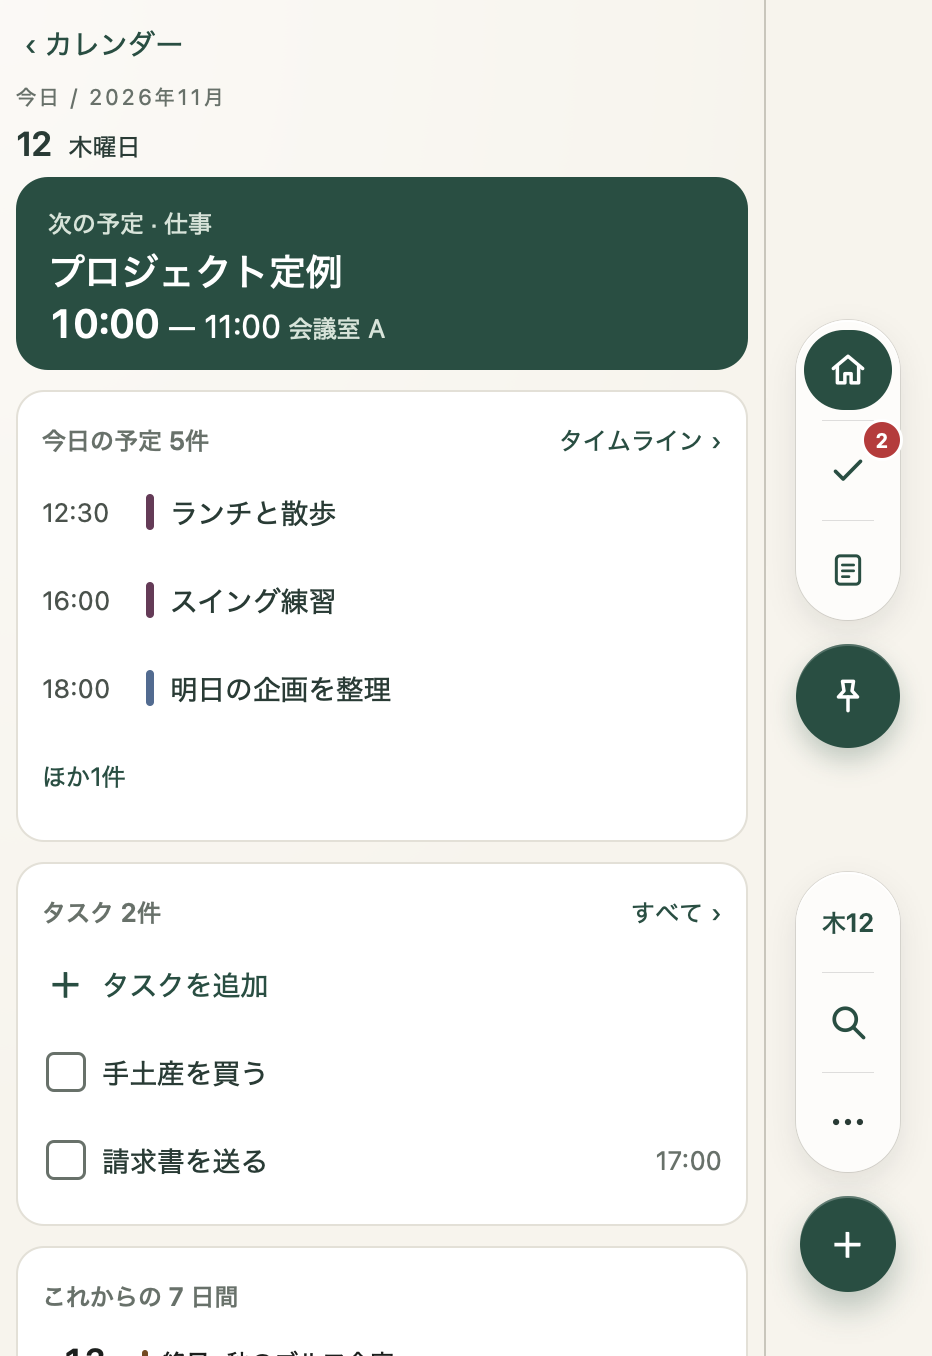
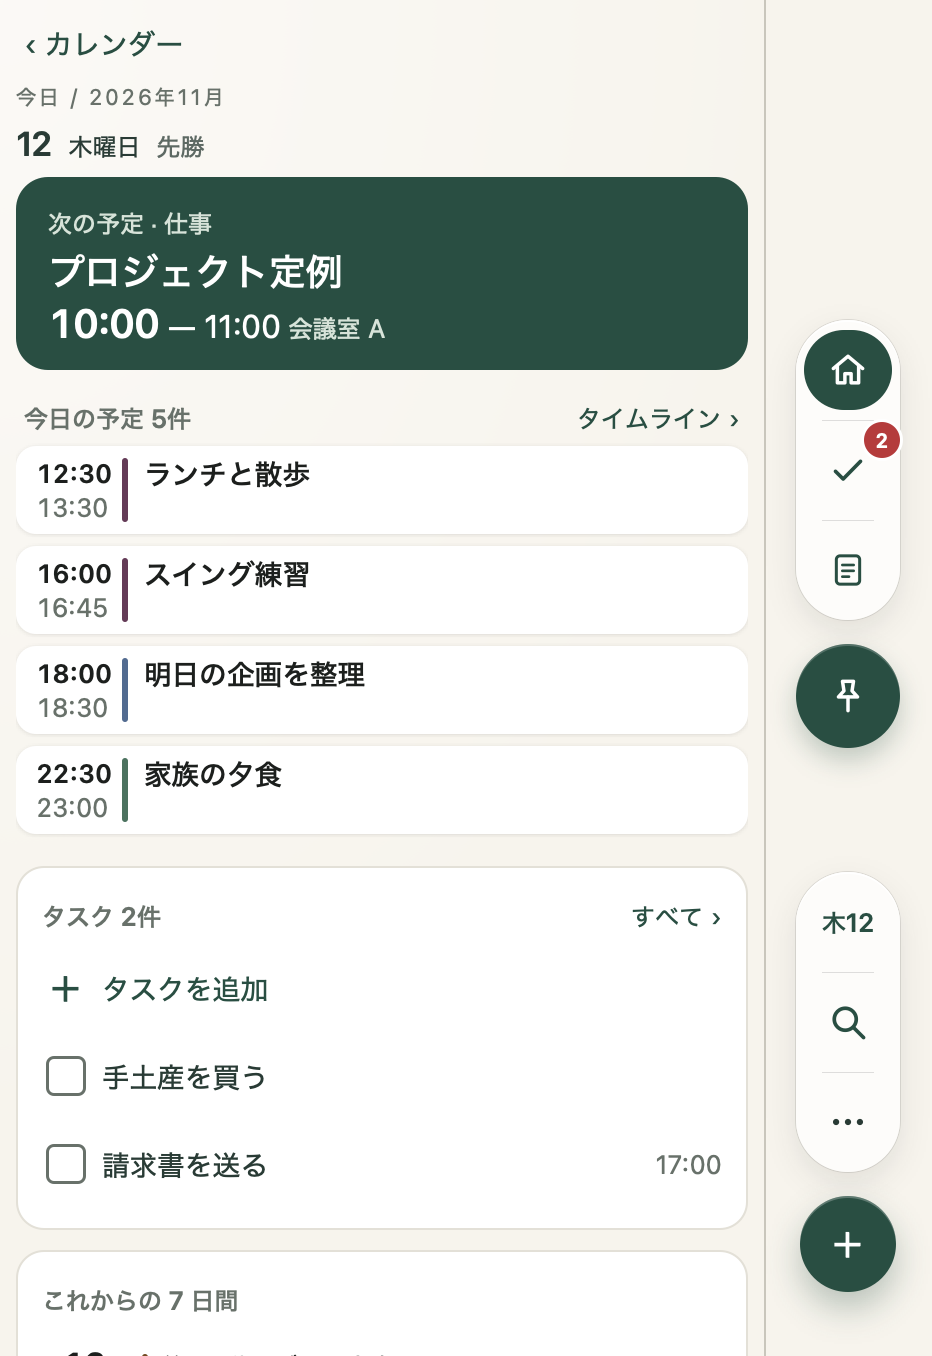
v19.5 その4: 閉じたホームの「今日の予定」を白いカードに（残りを全部出す）、日付の横に六曜

diff --git a/app/ios/App/App/public/js/app.js b/app/ios/App/App/public/js/app.js
@@ -1969,6 +1969,11 @@ function homeTasksCard() {
 }
 // 第19.5版: ホームの「これからの 7 日間」（明日から 7 日。1 日 1 行で、予定は 3 件まで＋「ほか N 件」。行をたたくと、その日を選んでカレンダーへ）
 const HOME_WEEK_MAX = 3;
+// 第19.5版（征希さん「作り込んで」）: 閉じたホームの「今日の予定」は、日の欄と同じ白いカード（始まり・終わり・色の線・題名・メモの 1 行目）
+function homeEventCard(e, k) {
+  const memo = (e.notes || '').split('\n').find((x) => x.trim()) || '', multi = e.all || dayOf(e.start) < k;
+  return `<button type="button" class="hrow event-row hxc ${catCls(e)}"${catSty(e)} data-event="${esc(e.id)}"${repLabel(e, `${timeLabel(e)} ${e.title}`)}><span class="ht">${multi ? '終日' : t0(e.start.slice(11))}${bell(e)}</span><span class="ht2">${multi ? '' : dayEndText(e, k)}</span><i class="hbar" aria-hidden="true"></i><strong>${xi(e)}${rep(e)}${esc(e.title)}</strong>${memo ? `<small class="hxm">${esc(memo)}</small>` : ''}</button>`;
+}
 function homeWeekCard(k) {
   const from = addDays(k, 1), to = addDays(k, 7), occ = occIn(from, to);
   const rows = Array.from({ length: 7 }, (_, i) => addDays(k, i + 1)).map((dk) => {
@@ -1985,14 +1990,14 @@ function listHtml(mode = 'cards') {
   const list = eventsOnDay(occIn(k, k), k).filter((e) => e.end > now);
   // 今日にもう予定がなければ、未来の回も含めて日付順に次の予定を探す。
   const future = list.length ? null : occIn(addDays(k, 1), addDays(k, 400)).sort((a, b) => a.start.localeCompare(b.start) || String(a.id).localeCompare(String(b.id)))[0];
-  const { next, shown, more, count } = splitEvents(list, future);
+  const { next, shown, more, count, rest } = splitEvents(list, future), closedH = closedSize() && mode === 'cards';
   const nextDay = next && dayOf(next.start) !== k ? `<small class="nd">${dayLabel(dayOf(next.start))}</small> ` : '';
   const nextHtml = next
     ? `<button type="button" class="next ${catCls(next)}"${catSty(next)} data-event="${esc(next.id)}"${repLabel(next, `次の予定 ${next.title}`)}><small>次の予定 · ${esc(tagText(next))}</small><strong>${xi(next)}${rep(next)}${esc(next.title)}</strong><span class="when"><span class="time">${nextDay}${next.all ? '終日' : t0(next.start.slice(11))}</span>${next.all || dayOf(next.start) !== dayOf(next.end) ? '' : ` — ${t0(next.end.slice(11))}`}${next.place ? ` <small>${esc(next.place)}</small>` : ''}${nextBell(next)}</span></button>`
     : `<div class="next none"><small>次の予定</small><strong>${extActive() ? '読み込み済みの期間に次の予定はありません。' : state.events.length ? 'この後の予定はありません' : '予定はまだありません'}</strong>${sampleBtn()}</div>`;
-  const hero = `<section class="hero"><div class="date-block"><div class="eyebrow">今日 / ${d.getFullYear()}年${d.getMonth() + 1}月</div><div class="date">${d.getDate()}<span>${DOW[d.getDay()]}曜日</span></div></div>${nextHtml}</section>`;
-  const body = mode === 'axis' ? homeAxis(list, now, k) : shown.map(homeEventRow).join('');
-  const evCard = `<section class="hcard hevents" aria-label="今日の予定"><div class="hh3"><h3>今日の予定 ${count}件</h3>${homeGo('time', 'タイムライン')}</div>${body || '<p class="small hempty">この後の予定はありません</p>'}${mode !== 'axis' && more ? `<button type="button" class="hmore" data-act="homego" data-to="time">ほか${more}件</button>` : ''}</section>`;
+  const hero = `<section class="hero"><div class="date-block"><div class="eyebrow">今日 / ${d.getFullYear()}年${d.getMonth() + 1}月</div><div class="date">${d.getDate()}<span>${DOW[d.getDay()]}曜日</span>${closedH && rkOf(k) ? `<span class="hrk">${rkOf(k).name}</span>` : ''}</div></div>${nextHtml}</section>`;
+  const body = mode === 'axis' ? homeAxis(list, now, k) : closedH ? rest.map((e) => homeEventCard(e, k)).join('') : shown.map(homeEventRow).join(''); // 閉じた画面は下へ送って読めるので、残りを全部出す（「ほか N 件」は出さない）
+  const evCard = `<section class="hcard hevents" aria-label="今日の予定"><div class="hh3"><h3>今日の予定 ${count}件</h3>${homeGo('time', 'タイムライン')}</div>${body || '<p class="small hempty">この後の予定はありません</p>'}${mode !== 'axis' && more && !closedH ? `<button type="button" class="hmore" data-act="homego" data-to="time">ほか${more}件</button>` : ''}</section>`;
   const tl = tomorrowSummary(eventsOnDay(occIn(tm, tm), tm)), td = parseKey(tm);
   const tmCard = `<button type="button" class="hcard htmr" data-act="homego" data-to="tomorrow" aria-label="明日の予定を開く"><b>明日 ${td.getMonth() + 1}/${td.getDate()}（${DOW[td.getDay()]}）</b> <small>${tl.count}件</small>${tl.first ? `<span>${tl.first.all ? '終日' : t0(tl.first.start.slice(11))} ${esc(tl.first.title)}${tl.more ? `　ほか${tl.more}件` : ''}</span>` : '<span class="hempty">予定はありません</span>'}</button>`;
   if (mode === 'cols') return `<div class="hcols"><div class="hcol">${nextHtml}</div><div class="hcol">${homeTasksCard()}</div></div>`;

diff --git a/app/js/app.js b/app/js/app.js
@@ -1969,6 +1969,11 @@ function homeTasksCard() {
 }
 // 第19.5版: ホームの「これからの 7 日間」（明日から 7 日。1 日 1 行で、予定は 3 件まで＋「ほか N 件」。行をたたくと、その日を選んでカレンダーへ）
 const HOME_WEEK_MAX = 3;
+// 第19.5版（征希さん「作り込んで」）: 閉じたホームの「今日の予定」は、日の欄と同じ白いカード（始まり・終わり・色の線・題名・メモの 1 行目）
+function homeEventCard(e, k) {
+  const memo = (e.notes || '').split('\n').find((x) => x.trim()) || '', multi = e.all || dayOf(e.start) < k;
+  return `<button type="button" class="hrow event-row hxc ${catCls(e)}"${catSty(e)} data-event="${esc(e.id)}"${repLabel(e, `${timeLabel(e)} ${e.title}`)}><span class="ht">${multi ? '終日' : t0(e.start.slice(11))}${bell(e)}</span><span class="ht2">${multi ? '' : dayEndText(e, k)}</span><i class="hbar" aria-hidden="true"></i><strong>${xi(e)}${rep(e)}${esc(e.title)}</strong>${memo ? `<small class="hxm">${esc(memo)}</small>` : ''}</button>`;
+}
 function homeWeekCard(k) {
   const from = addDays(k, 1), to = addDays(k, 7), occ = occIn(from, to);
   const rows = Array.from({ length: 7 }, (_, i) => addDays(k, i + 1)).map((dk) => {
@@ -1985,14 +1990,14 @@ function listHtml(mode = 'cards') {
   const list = eventsOnDay(occIn(k, k), k).filter((e) => e.end > now);
   // 今日にもう予定がなければ、未来の回も含めて日付順に次の予定を探す。
   const future = list.length ? null : occIn(addDays(k, 1), addDays(k, 400)).sort((a, b) => a.start.localeCompare(b.start) || String(a.id).localeCompare(String(b.id)))[0];
-  const { next, shown, more, count } = splitEvents(list, future);
+  const { next, shown, more, count, rest } = splitEvents(list, future), closedH = closedSize() && mode === 'cards';
   const nextDay = next && dayOf(next.start) !== k ? `<small class="nd">${dayLabel(dayOf(next.start))}</small> ` : '';
   const nextHtml = next
     ? `<button type="button" class="next ${catCls(next)}"${catSty(next)} data-event="${esc(next.id)}"${repLabel(next, `次の予定 ${next.title}`)}><small>次の予定 · ${esc(tagText(next))}</small><strong>${xi(next)}${rep(next)}${esc(next.title)}</strong><span class="when"><span class="time">${nextDay}${next.all ? '終日' : t0(next.start.slice(11))}</span>${next.all || dayOf(next.start) !== dayOf(next.end) ? '' : ` — ${t0(next.end.slice(11))}`}${next.place ? ` <small>${esc(next.place)}</small>` : ''}${nextBell(next)}</span></button>`
     : `<div class="next none"><small>次の予定</small><strong>${extActive() ? '読み込み済みの期間に次の予定はありません。' : state.events.length ? 'この後の予定はありません' : '予定はまだありません'}</strong>${sampleBtn()}</div>`;
-  const hero = `<section class="hero"><div class="date-block"><div class="eyebrow">今日 / ${d.getFullYear()}年${d.getMonth() + 1}月</div><div class="date">${d.getDate()}<span>${DOW[d.getDay()]}曜日</span></div></div>${nextHtml}</section>`;
-  const body = mode === 'axis' ? homeAxis(list, now, k) : shown.map(homeEventRow).join('');
-  const evCard = `<section class="hcard hevents" aria-label="今日の予定"><div class="hh3"><h3>今日の予定 ${count}件</h3>${homeGo('time', 'タイムライン')}</div>${body || '<p class="small hempty">この後の予定はありません</p>'}${mode !== 'axis' && more ? `<button type="button" class="hmore" data-act="homego" data-to="time">ほか${more}件</button>` : ''}</section>`;
+  const hero = `<section class="hero"><div class="date-block"><div class="eyebrow">今日 / ${d.getFullYear()}年${d.getMonth() + 1}月</div><div class="date">${d.getDate()}<span>${DOW[d.getDay()]}曜日</span>${closedH && rkOf(k) ? `<span class="hrk">${rkOf(k).name}</span>` : ''}</div></div>${nextHtml}</section>`;
+  const body = mode === 'axis' ? homeAxis(list, now, k) : closedH ? rest.map((e) => homeEventCard(e, k)).join('') : shown.map(homeEventRow).join(''); // 閉じた画面は下へ送って読めるので、残りを全部出す（「ほか N 件」は出さない）
+  const evCard = `<section class="hcard hevents" aria-label="今日の予定"><div class="hh3"><h3>今日の予定 ${count}件</h3>${homeGo('time', 'タイムライン')}</div>${body || '<p class="small hempty">この後の予定はありません</p>'}${mode !== 'axis' && more && !closedH ? `<button type="button" class="hmore" data-act="homego" data-to="time">ほか${more}件</button>` : ''}</section>`;
   const tl = tomorrowSummary(eventsOnDay(occIn(tm, tm), tm)), td = parseKey(tm);
   const tmCard = `<button type="button" class="hcard htmr" data-act="homego" data-to="tomorrow" aria-label="明日の予定を開く"><b>明日 ${td.getMonth() + 1}/${td.getDate()}（${DOW[td.getDay()]}）</b> <small>${tl.count}件</small>${tl.first ? `<span>${tl.first.all ? '終日' : t0(tl.first.start.slice(11))} ${esc(tl.first.title)}${tl.more ? `　ほか${tl.more}件` : ''}</span>` : '<span class="hempty">予定はありません</span>'}</button>`;
   if (mode === 'cols') return `<div class="hcols"><div class="hcol">${nextHtml}</div><div class="hcol">${homeTasksCard()}</div></div>`;

diff --git a/app/css/app.css b/app/css/app.css
@@ -2715,3 +2715,15 @@ html[data-grabtime] .gchip{opacity:0!important}
 .hweek .hwe em{font-style:normal;font-weight:600;font-variant-numeric:tabular-nums;margin-right:8px}
 .hweek .hwn{font:400 13px/20px -apple-system,'Hiragino Sans',sans-serif;color:#A8ABA4}
 .hweek .hwm{font:400 11px/16px -apple-system,'Hiragino Sans',sans-serif;color:#5D6963;padding-left:10px}
+/* ---- 第19.5版（征希さん「作り込んで」）: 閉じたホームの「今日の予定」は、日の欄と同じ白いカード（高さ 44・角丸 10・間 6）。タスクの箱は S8 ★1-10 の決まり（追加の行が見出しのすぐ下・行 44）のまま ---- */
+.shell.closed .home.hm-cards .hcard.hevents{background:none;border:0;border-radius:0;padding:0}
+.shell.closed .home.hm-cards .hcard.hevents .hh3{padding:0 4px}
+.shell.closed .home.hm-cards .hrow.hxc{position:relative;display:block;box-sizing:border-box;width:100%;height:44px;min-height:44px;margin:0 0 6px;padding:0;border:0;border-radius:10px;background:#fff;box-shadow:0 .5px 2px rgba(38,42,39,.12);overflow:hidden;text-align:left;white-space:nowrap}
+.shell.closed .home.hm-cards .hxc .ht{position:absolute;left:10px;top:5px;min-width:0;font:600 13px/17px -apple-system,'Hiragino Sans',sans-serif;color:var(--ink2);font-variant-numeric:tabular-nums}
+.shell.closed .home.hm-cards .hxc .ht2{position:absolute;left:10px;top:22px;font:400 13px/17px -apple-system,'Hiragino Sans',sans-serif;color:var(--muted);font-variant-numeric:tabular-nums}
+.shell.closed .home.hm-cards .hxc .hbar{position:absolute;left:53px;top:6px;bottom:6px;width:3px;height:auto;border-radius:1.5px}
+.shell.closed .home.hm-cards .hxc strong{position:absolute;left:64px;right:10px;top:5px;font:600 15px/17px -apple-system,'Hiragino Sans','Hiragino Kaku Gothic ProN',sans-serif;color:var(--ink2);overflow:hidden;text-overflow:ellipsis}
+.shell.closed .home.hm-cards .hxc .hxm{position:absolute;left:64px;right:10px;top:24px;font:400 11px/15px -apple-system,'Hiragino Sans',sans-serif;color:var(--muted);overflow:hidden;text-overflow:ellipsis}
+.shell.closed .home.hm-cards .hrow.hxc:active{background:#F5F3EC}
+.shell.closed .home.hm-cards .date .hrk{margin-left:8px;font-weight:400;color:#5D6963}
+.shell.closed .home.hm-cards .hevents .hempty{padding:0 4px}

diff --git a/app/ios/App/App/public/css/app.css b/app/ios/App/App/public/css/app.css
@@ -2715,3 +2715,15 @@ html[data-grabtime] .gchip{opacity:0!important}
 .hweek .hwe em{font-style:normal;font-weight:600;font-variant-numeric:tabular-nums;margin-right:8px}
 .hweek .hwn{font:400 13px/20px -apple-system,'Hiragino Sans',sans-serif;color:#A8ABA4}
 .hweek .hwm{font:400 11px/16px -apple-system,'Hiragino Sans',sans-serif;color:#5D6963;padding-left:10px}
+/* ---- 第19.5版（征希さん「作り込んで」）: 閉じたホームの「今日の予定」は、日の欄と同じ白いカード（高さ 44・角丸 10・間 6）。タスクの箱は S8 ★1-10 の決まり（追加の行が見出しのすぐ下・行 44）のまま ---- */
+.shell.closed .home.hm-cards .hcard.hevents{background:none;border:0;border-radius:0;padding:0}
+.shell.closed .home.hm-cards .hcard.hevents .hh3{padding:0 4px}
+.shell.closed .home.hm-cards .hrow.hxc{position:relative;display:block;box-sizing:border-box;width:100%;height:44px;min-height:44px;margin:0 0 6px;padding:0;border:0;border-radius:10px;background:#fff;box-shadow:0 .5px 2px rgba(38,42,39,.12);overflow:hidden;text-align:left;white-space:nowrap}
+.shell.closed .home.hm-cards .hxc .ht{position:absolute;left:10px;top:5px;min-width:0;font:600 13px/17px -apple-system,'Hiragino Sans',sans-serif;color:var(--ink2);font-variant-numeric:tabular-nums}
+.shell.closed .home.hm-cards .hxc .ht2{position:absolute;left:10px;top:22px;font:400 13px/17px -apple-system,'Hiragino Sans',sans-serif;color:var(--muted);font-variant-numeric:tabular-nums}
+.shell.closed .home.hm-cards .hxc .hbar{position:absolute;left:53px;top:6px;bottom:6px;width:3px;height:auto;border-radius:1.5px}
+.shell.closed .home.hm-cards .hxc strong{position:absolute;left:64px;right:10px;top:5px;font:600 15px/17px -apple-system,'Hiragino Sans','Hiragino Kaku Gothic ProN',sans-serif;color:var(--ink2);overflow:hidden;text-overflow:ellipsis}
+.shell.closed .home.hm-cards .hxc .hxm{position:absolute;left:64px;right:10px;top:24px;font:400 11px/15px -apple-system,'Hiragino Sans',sans-serif;color:var(--muted);overflow:hidden;text-overflow:ellipsis}
+.shell.closed .home.hm-cards .hrow.hxc:active{background:#F5F3EC}
+.shell.closed .home.hm-cards .date .hrk{margin-left:8px;font-weight:400;color:#5D6963}
+.shell.closed .home.hm-cards .hevents .hempty{padding:0 4px}

diff --git a/app/tests/layout.spec.js b/app/tests/layout.spec.js
@@ -27,7 +27,7 @@ test.describe('レイアウト（4サイズ）', () => {
     await openApp(page, SIZES.closedPortrait);
     await tab(page, 'ホーム').click(); // 起動はカレンダー（design/34 §9.2・11:29 の決定）
     for (let i = 0; i < 9; i++) await addEvent(page, { title: `追加予定${i}`, start: `2026/11/12 ${String(14 + (i % 8)).padStart(2, '0')}:00`, end: `2026/11/12 ${String(14 + (i % 8)).padStart(2, '0')}:30` });
-    await expect(page.locator('.hevents .hrow')).toHaveCount(3); // 最大3件＋ほか
+    await expect(page.locator('.hevents .hrow')).toHaveCount(8); await expect(page.locator('.hmore')).toHaveCount(0); // v19.5（征希さん「ホーム…スクロールできるように」「作り込んで」）で仕様変更: 閉じたホームの今日の予定は、3 件＋「ほか」ではなく残りを全部カードで出す（下へ送って読む）
     const list = page.locator('.home.listview');
     // 下の余白が 87 → 41 になり（タブ廃止）、この件数では送らなくても収まることがある。送れるなら送り切って、最後のカードが余白の上にあることを見る
     expect(await list.evaluate((el) => el.scrollHeight >= el.clientHeight)).toBe(true);
